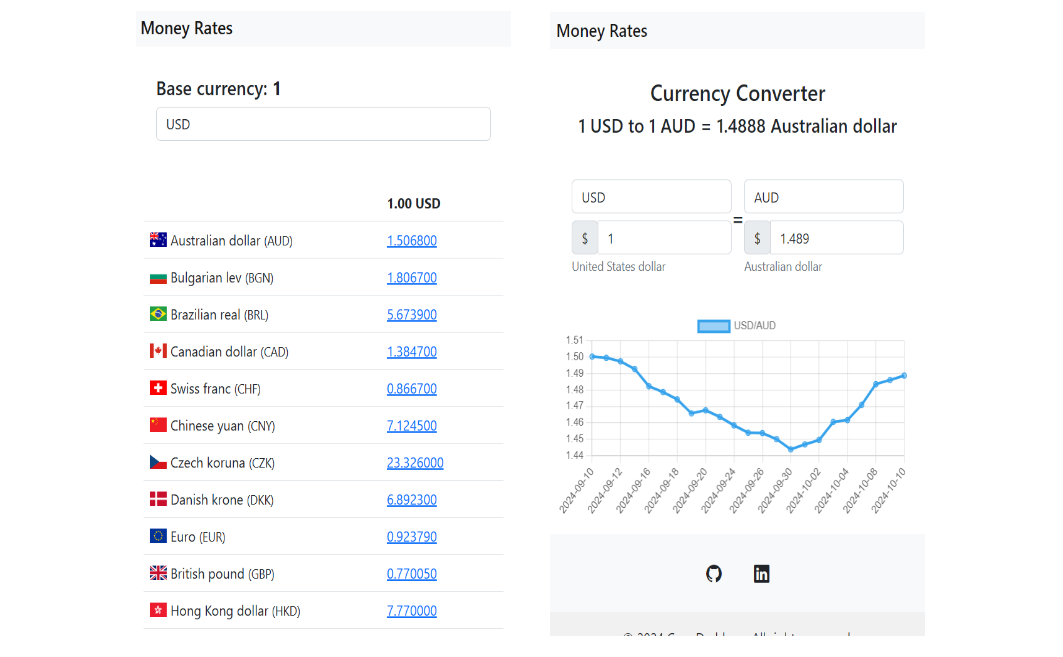
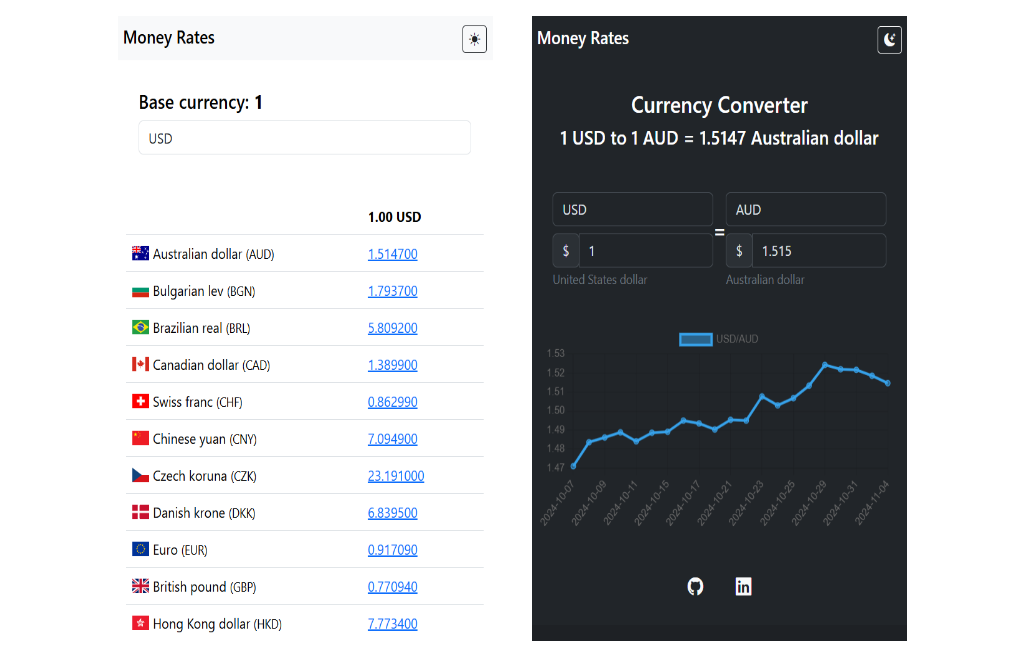
updated money rates image and description

diff --git a/src/index.html b/src/index.html
@@ -169,7 +169,7 @@
                 <h3 class="project-wrapper__text-title">Money Rates</h3>
                 <div>
                   <p class="mb-4">
-                    Money rates is an app that lets you track current and historical foreign exchange rates.
+                    Money rates is an app that lets you track current and historical foreign exchange rates. Includes a theme toggle for user preference.
                     <ul>
                       <li>React</li>
                       <li>React Router</li>
